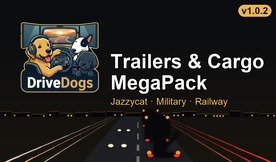
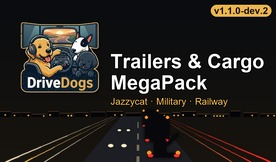
test the pack as one archive, since a 86k-entry archive loaded and the 60k limit looks wrong, 1.1.0-dev.2

Changed region(s): [[0.7536, 0.0, 0.9565, 0.1235]]

diff --git a/docs/adr/ADR-0001-one-megapack-requires-economy.md b/docs/adr/ADR-0001-one-megapack-requires-economy.md
@@ -57,7 +57,9 @@ each version bump anyway; revisit if build time becomes a problem.
 **Update 2026-09-28:** the pack has no separate def part (`split_defs: false`), since every build repacks all
 parts anyway, and it drops cargo links to companies the base game lacks (`exclude_unknown_companies`; 67k of
 140k link files, for map mods the maintainer does not run). Result: 3 archives instead of 5.
-**Update 2026-10-01:** a 5.09 GiB archive loads in game (DriveDogs World), so `max_part_bytes` is 5 GiB and only
-the 60,000-entries-per-archive limit splits the pack: 2 archives from 1.0.2.
+**Update 2026-10-01:** a 5.09 GiB archive loads in game (DriveDogs World), so `max_part_bytes` is 5 GiB: 2 archives
+from 1.0.2, split by the forum's 60,000-entries-per-archive limit. That limit looks wrong for HashFS mods (AiTrafficPack
+loaded one archive of 86,583 entries), so 1.1.0-dev.2 tests the pack as one archive. Company cargo-link files cannot be
+merged to save entries: the game reads each as exactly one unit (1.1.0-dev.1 broke cargo).
 **Follow-up:** check paths this pack shares with the AI Traffic megapack (both carry Jazzycat content) and
 set the load order from that.

diff --git a/README.md b/README.md
@@ -43,7 +43,7 @@ Uses the `ets2-mod-developer` profile's `megapack` skill:
 4. `python tools/cargo_icons.py` refreshes the cargo icon aliases in `overrides/`.
 5. `megapack check` reports stale locks, unresolved collisions and edits that no longer apply.
 6. `megapack build` writes `output/local/<name>_partN_v<version>.scs` (`package.versioned_filenames`, the
-   DriveDogs naming convention; 2 parts today, split by the 60,000-entries-per-archive limit).
+   DriveDogs naming convention; 2 parts in 1.0.2, one archive from 1.1.0 if the in-game test passes).
    Needs the base game of `base_game.version` extracted (`extract-reference`, category `base`):
    `exclude_unknown_companies` drops cargo links to companies it does not have (map-mod companies).
 
